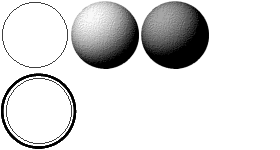
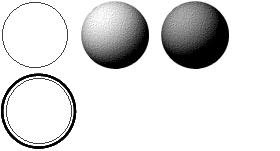
505: Fixed #150 "Some options in the setup menu are not translated" needs reflash! not working with beta-pack on SD-Card ALL: Added #70 "Make node containers accessible via menu customizer" Solitaire/505: Marbles aligned to even byte border

diff --git a/firmware/505/Fsk/sony/ebook/application/resources/prsp_lang/defaultUILocalizer.js b/firmware/505/Fsk/sony/ebook/application/resources/prsp_lang/defaultUILocalizer.js
@@ -143,6 +143,7 @@ var tmp = function() {
 			// Settings
 			setStr(nodes.settings, "SETTINGS");
 			nodes.settings._mycomment = settingsComment;
+				
 		} catch (e) {
 			log.error("localizing root", e);
 		}
@@ -189,7 +190,7 @@ var tmp = function() {
 			slideshowNodes[2].kind = -parseFloat(L("SS_OK_SIZE", 2));
 			
 			// Settings - Auto Standby
-			var autoStandby = Core.ui.nodes.settings.nodes[3];
+			var autoStandby = standardNodes.settings.nodes[3];
 			setStr(autoStandby, "AUTOSTANDBY");
 			autoStandby._mycomment = function() {
 				return kbook.model.autoStandbyFlag ? L("AS_ON") : L("AS_OFF");
@@ -213,7 +214,7 @@ var tmp = function() {
 
 	var localizeAdvancedSettings = function() {
 		try {
-			var nodes = Core.ui.nodes;
+			var nodes = standardNodes;
 
 			// Settings - Advanced Settings
 			setStr(nodes.advancedSettings, "ADVANCED_SETTINGS");
@@ -233,7 +234,7 @@ var tmp = function() {
 			screenLockSettingsNodes[2].kind = -parseFloat(L("SL_OK_SIZE", 2));
 
 			// Shown to unlock settings
-			var screenLock = Core.ui.nodes.advancedSettings.nodes[0];
+			var screenLock = standardNodes.advancedSettings.nodes[0];
 			var screenLockNodes = screenLock.nodes;
 			screenLock._mycomment = function () {
 				return kbook.model.screenLockFlag ? L("SL_ON") : L("SL_OFF");
@@ -315,7 +316,7 @@ var tmp = function() {
 	var localizeBookByDate = function() {
 		try {
 			// BooksByDate child children
-			var children = Core.ui.nodes.booksByDate.children;
+			var children = standardNodes.booksByDate.children;
 			setStr(children._1, "TODAY");
 			setStr(children._2, "EARLIER_THIS_WEEK");
 			setStr(children._3, "LAST_WEEK");
@@ -333,10 +334,11 @@ var tmp = function() {
 
 	var localizeBookByTitleAndAuthor = function() {
 		var setSoValue, childrenTitle, childrenAuthor, i, obj1, obj2, criterion, title;
+		try {
 		if (L("CUSTOM_SORT") === true) {
 			setSoValue = Core.system.setSoValue;
-			childrenTitle = Core.ui.nodes.booksByTitle.children;
-			childrenAuthor = Core.ui.nodes.booksByAuthor.children;
+			childrenTitle = standardNodes.booksByTitle.children;
+			childrenAuthor = standardNodes.booksByAuthor.children;
 			for (i = 0; i < 10; i++) {
 				obj1 = childrenTitle["_" + i];
 				obj2 = childrenAuthor["_" + i];
@@ -349,6 +351,9 @@ var tmp = function() {
 				setSoValue(obj2, "name", title);
 				setSoValue(obj2, "title", title);
 			}
+		}
+		} catch (e) {
+			log.error("In localizeBookByTitleAndAuthor: " + e);
 		}
 	};
 

diff --git a/script/core/core_ui_menu.js b/script/core/core_ui_menu.js
@@ -7,7 +7,9 @@
 //	2011-02-05 kartu - Added support for "Core.config.compat.rootNode" parameter (target node for menu customizer)
 //				"Separator" option is not shown, if model doesn't have numeric button.
 //				Fixed #34 ALL: MenuCustomizer should put unassigned nodes into default one.
-//					Unmodifiable slots got different title.
+//				Unmodifiable slots got different title.
+//	2011-06    Shura1oplot - assign Icons to menu-options
+//	2011-08-01 Mark Nord -  include Core.config.compat.prspMenu.customContainers
 
 var MenuCustomizer;
 tmp = function() {
@@ -52,7 +54,8 @@ tmp = function() {
 	//-------------------------------------------------------------------------------------------------------------
 	// Initializes node map
 	createListOfStandardNodes = function(nodeMap, values, valueTitles, valueIcons) {
-		var standardMenuLayout, standardMenuLayoutIcons, key, path, node, j, m;
+		var L,standardMenuLayout, standardMenuLayoutIcons, prspMenu, key, path, node, j, m;
+		L = Core.lang.getLocalizer("Core");
 		standardMenuLayoutIcons = {
 			"continue": "CONTINUE",
 			books: "ALL_BOOKS",
@@ -107,7 +110,18 @@ tmp = function() {
 			} catch (e) {
 				log.error("Failed to find node: " + key + " " + e);
 			}
-		}
+		}	
+			//include Core.config.compat.prspMenu.customContainers
+			try {
+				prspMenu = Core.config.compat.prspMenu;
+				for (key in prspMenu.customContainers) {
+					values.push(prspMenu.customContainers[key].name);
+					valueTitles[prspMenu.customContainers[key].name] = L(prspMenu.customContainers[key].title); 
+					valueIcons[prspMenu.customContainers[key].name] = prspMenu.customContainers[key].icon;
+					} 
+			} catch (e) {
+				log.error("Failed to find customContainers: " + key + " " + e);
+			} 
 	};
 	
 	/** Creates addon nodes,addon can either provide "activate" function, 

diff --git a/firmware/505/Fsk/sony/ebook/application/resources/prsp_lang/de.js b/firmware/505/Fsk/sony/ebook/application/resources/prsp_lang/de.js
@@ -99,10 +99,10 @@ return {
 		SS_TURN: "Aktivieren",
 		SS_DURATION: "Intervall",
 		// width in pixels = ..._SIZE * 35
-		SS_SIZE: 2,
+		SS_SIZE: "3",
 		SS_OK: "OK",
 		// width in pixels = ..._SIZE * 35
-		SS_OK_SIZE: 2,
+		SS_OK_SIZE: "2",
 		SECONDS: "Sekunden",
 		// auto standby (aka sleep mode)
 		AUTOSTANDBY: "Schlaf-Modus",
@@ -110,10 +110,10 @@ return {
 		AS_OFF: "Nein",
 		AS_TURN: "Aktivieren",
 		// width in pixels = ..._SIZE * 35
-		AS_SIZE: 2,
+		AS_SIZE: "3",
 		AS_OK: "OK",
 		// width in pixels = ..._SIZE * 35
-		AS_OK_SIZE: 2,
+		AS_OK_SIZE: "2",
 		// about
 		ABOUT: "Über",
 		// reset to factory settings
@@ -123,17 +123,17 @@ return {
 		ADVANCED_SETTINGS: "Erweiterte Einstellungen",
 		// screen lock (aka device lock)
 		SCREEN_LOCK: "Gerätesperre",
-		SL_OFF: "Ja",
-		SL_ON: "Nein",
+		SL_OFF: "Aus",
+		SL_ON: "Ein",
 		SL_CODE: "Code eingeben",
 		SL_TURN: "Aktivieren",
 		// width in pixels = ..._SIZE * 35
-		SL_SIZE: 2,
+		SL_SIZE: "3",
 		SL_OK: "OK",
-		SL_OK_SIZE: 2,
+		SL_OK_SIZE: "2",
 		SL_OK_UNLOCK: "OK", // unlock
 		// width in pixels = ..._SIZE * 35
-		SL_OK_UNLOCK_SIZE: 2,
+		SL_OK_UNLOCK_SIZE: "2",
 		// format device
 		FORMAT_DEVICE: "Gerät formatieren",
 
